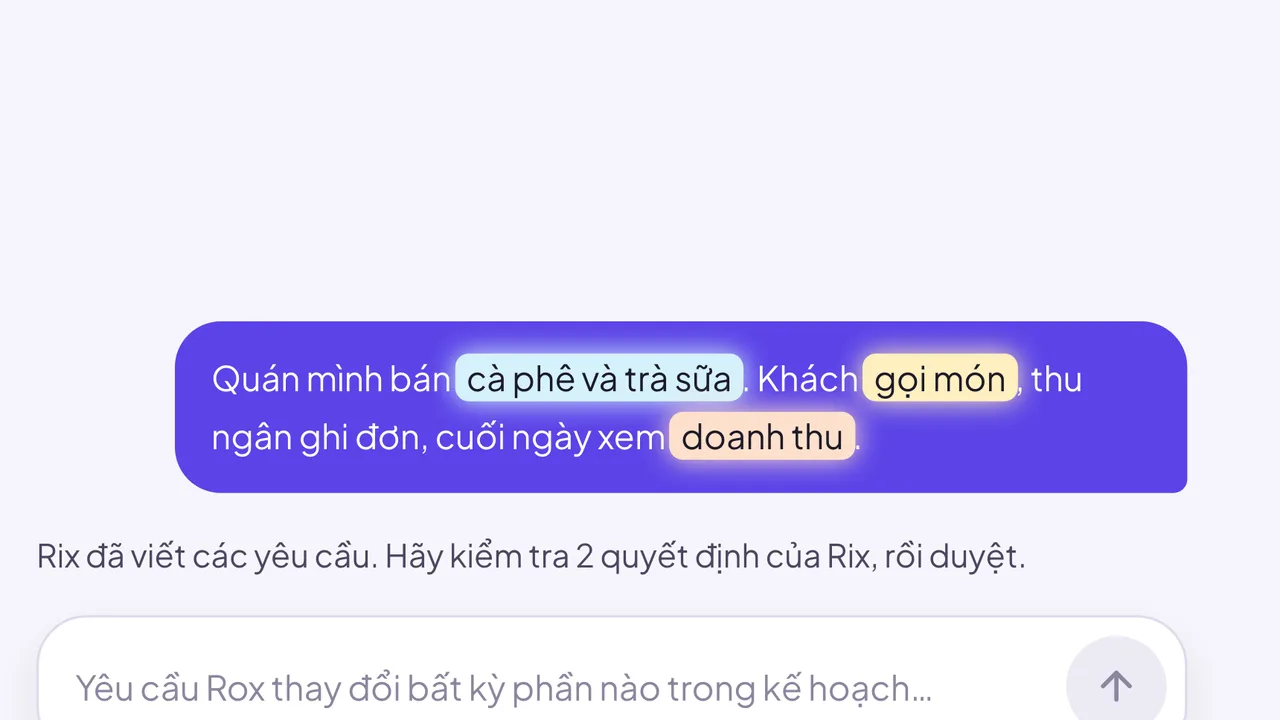
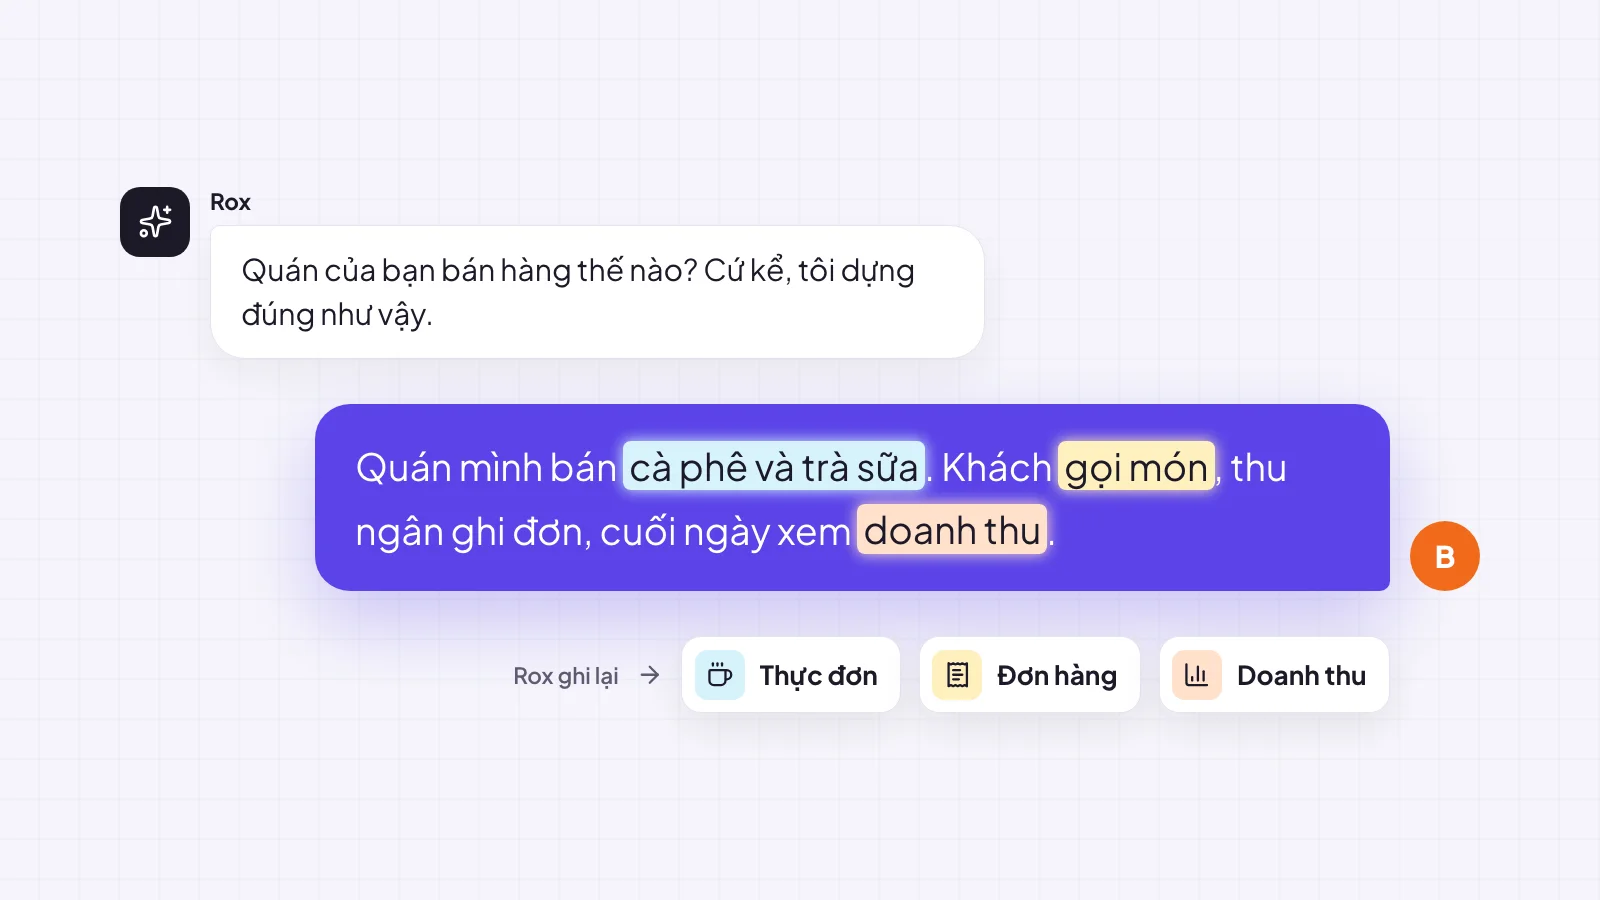
feat(landing): use drawn images for the four steps
Each card now shows an image designed for it instead of a crop of the hero
video (aos docs/specs/261117-landing-hero-video.md D10).

diff --git a/src/App.jsx b/src/App.jsx
@@ -6,7 +6,8 @@ import { Icon, Mark, Popover, SiteFooter, SiteHeader, TypeMenu } from './shared.
 
 // Landing page. Specs: aos docs/specs/261107-landing-redesign.md, restyled by 261117-landing-airtable-style.md.
 
-// The four stages of the hero video, one still each (video/videos/landing-hero/scripts/cards.sh renders public/how/).
+// The four stages of the hero video, one image each, drawn for these cards (aos video/videos/landing-hero/src/cards/HowCards.tsx;
+// scripts/cards.sh renders public/how/).
 const STEPS = [
   {
     id: 'buoc-1',
@@ -34,7 +35,7 @@ const STEPS = [
     tone: 'sand',
     title: 'Dùng ngay, thấy từng bước',
     line: 'Mỗi đơn đi qua từng bước bạn đọc hiểu được; sai ở đâu thấy ngay.',
-    alt: 'Một đơn đi qua từng bước, bước lưu đơn đã xong',
+    alt: 'Đơn vừa lưu đi qua bốn bước, bước nào cũng có kết quả dễ hiểu',
   },
 ]
 
@@ -167,7 +168,7 @@ function HowItWorks() {
                 <h3 className="title">{b.title}</h3>
                 <p className="card-line">{b.line}</p>
               </div>
-              <img className="card-shot" src={`/how/how-${i + 1}.webp`} width={1280} height={720} loading="lazy" decoding="async" alt={b.alt} />
+              <img className="card-shot" src={`/how/how-${i + 1}.webp`} width={1600} height={900} loading="lazy" decoding="async" alt={b.alt} />
             </li>
           ))}
         </ul>
